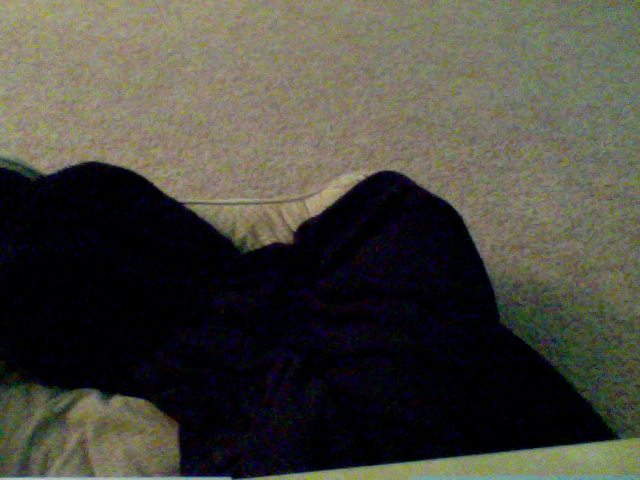
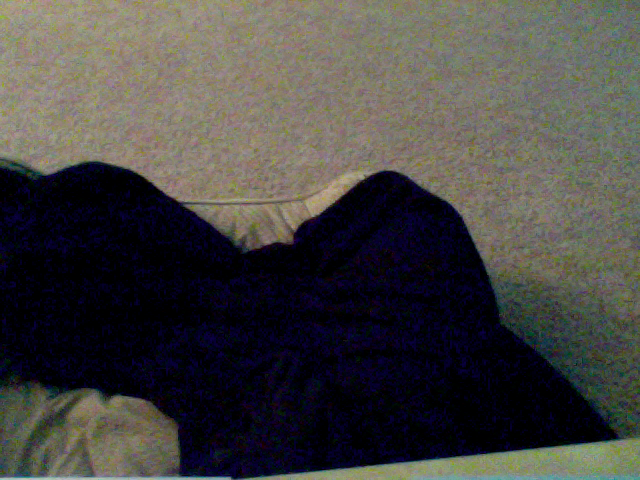
update at Month05Day07Time19:00

Changed region(s): [[0.0, 0.0, 1.0, 1.0], [0.75, 0.8438, 0.7812, 0.875]]

diff --git a/index.html b/index.html
@@ -39,8 +39,8 @@
       <!-- Example row of columns -->
       <div class="row">
         <div class="col-md-4">
-	<p>This picture was updated at Month05Day07Time18:59</p>
-		<img src="1_pic.png" />
+	<p>This picture was updated at Month05Day07Time19:00</p>
+		<img src="9_pic.png" />
         </div>
       </div>
 
